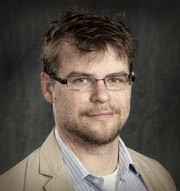
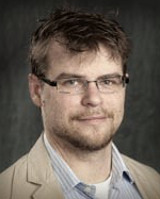
Crop photos of organizing committee to 160x200.

diff --git a/organizing-committee.html b/organizing-committee.html
@@ -14,7 +14,7 @@ layout: default
       USA
       </p>
 
-      <img class="img-thumbnail" src="/assets/faces/nkraft.jpg" style="width:200px" />
+      <img class="img-thumbnail" src="/assets/faces/nkraft.jpg" style="width:160px" />
     </div>
     <div class="col-md-4">
       <p>
@@ -22,7 +22,7 @@ layout: default
       NC State University</br />
       USA
       </p>
-      <img class="img-thumbnail" src="/assets/faces/tmenzies.jpg" style="width:200px" />
+      <img class="img-thumbnail" src="/assets/faces/tmenzies.jpg" style="width:160px" />
     </div>
   </div>  
   
@@ -36,7 +36,7 @@ layout: default
       Canada
       </p>
 
-      <img class="img-thumbnail" src="/assets/faces/badams.jpg" style="width:200px" />
+      <img class="img-thumbnail" src="/assets/faces/badams.jpg" style="width:160px" />
     </div>
     <div class="col-md-4">
       <p>
@@ -44,7 +44,7 @@ layout: default
       College of William &amp; Mary</br />
       USA
       </p>
-      <img class="img-thumbnail" src="/assets/faces/dposhyvanyk.jpg" style="width:200px" />
+      <img class="img-thumbnail" src="/assets/faces/dposhyvanyk.jpg" style="width:160px" />
     </div>
   </div>  
   
@@ -58,7 +58,7 @@ layout: default
       USA
       </p>
 
-      <img class="img-thumbnail" src="/assets/faces/cparnin.jpg" style="width:200px" />
+      <img class="img-thumbnail" src="/assets/faces/cparnin.jpg" style="width:160px" />
     </div>
     <div class="col-md-4">
       <p>
@@ -66,7 +66,7 @@ layout: default
       Microsoft Research</br />
       China
       </p>
-      <img class="img-thumbnail" src="/assets/faces/hzhang.jpg" style="width:200px" />
+      <img class="img-thumbnail" src="/assets/faces/hzhang.jpg" style="width:160px" />
     </div>
   </div>
 
@@ -80,7 +80,7 @@ layout: default
       Netherlands
       </p>
 
-      <img class="img-thumbnail" src="/assets/faces/fhermans.jpg" style="width:200px" />
+      <img class="img-thumbnail" src="/assets/faces/fhermans.jpg" style="width:160px" />
     </div>
     <div class="col-md-4">
       <p>
@@ -99,7 +99,7 @@ layout: default
       Netherlands
       </p>
 
-      <img class="img-thumbnail" src="/assets/faces/abacchelli.jpg" style="width:200px" />
+      <img class="img-thumbnail" src="/assets/faces/abacchelli.jpg" style="width:160px" />
     </div>
     <div class="col-md-4">
       <p>
@@ -107,7 +107,7 @@ layout: default
       Drew University</br />
       USA
       </p>
-      <img class="img-thumbnail" src="/assets/faces/ehill.jpg" style="width:200px" />
+      <img class="img-thumbnail" src="/assets/faces/ehill.jpg" style="width:160px" />
     </div>
   </div>
 
@@ -121,7 +121,7 @@ layout: default
       USA
       </p>
 
-      <img class="img-thumbnail" src="/assets/faces/abegel.jpg" style="width:200px" />
+      <img class="img-thumbnail" src="/assets/faces/abegel.jpg" style="width:160px" />
     </div>
     <div class="col-md-4">
       <p>
@@ -129,7 +129,7 @@ layout: default
       University of Delaware</br />
       USA
       </p>
-      <img class="img-thumbnail" src="/assets/faces/lpollock.jpg" style="width:200px" />
+      <img class="img-thumbnail" src="/assets/faces/lpollock.jpg" style="width:160px" />
     </div>
   </div>
 
@@ -143,7 +143,7 @@ layout: default
       Singapore
       </p>
 
-      <img class="img-thumbnail" src="/assets/faces/dlo.jpg" style="width:200px" />
+      <img class="img-thumbnail" src="/assets/faces/dlo.jpg" style="width:160px" />
     </div>
     <div class="col-md-4">
       <p>
@@ -176,7 +176,7 @@ layout: default
       Canada
       </p>
 
-      <img class="img-thumbnail" src="/assets/faces/lguerrouj.png" style="width:200px" />
+      <img class="img-thumbnail" src="/assets/faces/lguerrouj.png" style="width:160px" />
     </div>
   </div>
 
@@ -190,7 +190,7 @@ layout: default
       Italy
       </p>
 
-      <img class="img-thumbnail" src="/assets/faces/gbavota.jpg" style="width:200px" />
+      <img class="img-thumbnail" src="/assets/faces/gbavota.jpg" style="width:160px" />
     </div>
     <div class="col-md-4">
       <p>
@@ -198,7 +198,7 @@ layout: default
       Florida State University</br />
       USA
       </p>
-      <img class="img-thumbnail" src="/assets/faces/shaiduc.jpg" style="width:200px" />
+      <img class="img-thumbnail" src="/assets/faces/shaiduc.jpg" style="width:160px" />
     </div>
   </div>
 
@@ -212,7 +212,7 @@ layout: default
       USA
       </p>
 
-      <img class="img-thumbnail" src="/assets/faces/tbarik.jpg" style="width:200px" />
+      <img class="img-thumbnail" src="/assets/faces/tbarik.jpg" style="width:160px" />
     </div>
   </div>
 
@@ -236,7 +236,7 @@ layout: default
       USA
       </p>
 
-      <img class="img-thumbnail" src="/assets/faces/dshepherd.jpg" style="width:200px" />
+      <img class="img-thumbnail" src="/assets/faces/dshepherd.jpg" style="width:160px" />
     </div>
   </div>  
 
@@ -250,7 +250,7 @@ layout: default
       USA
       </p>
 
-      <img class="img-thumbnail" src="/assets/faces/xqu.jpg" style="width:200px" />
+      <img class="img-thumbnail" src="/assets/faces/xqu.jpg" style="width:160px" />
     </div>
   </div>  
 
@@ -264,7 +264,7 @@ layout: default
       USA
       </p>
 
-      <img class="img-thumbnail" src="/assets/faces/mrice.jpg" style="width:200px" />
+      <img class="img-thumbnail" src="/assets/faces/mrice.jpg" style="width:160px" />
     </div>
   </div> 
 
